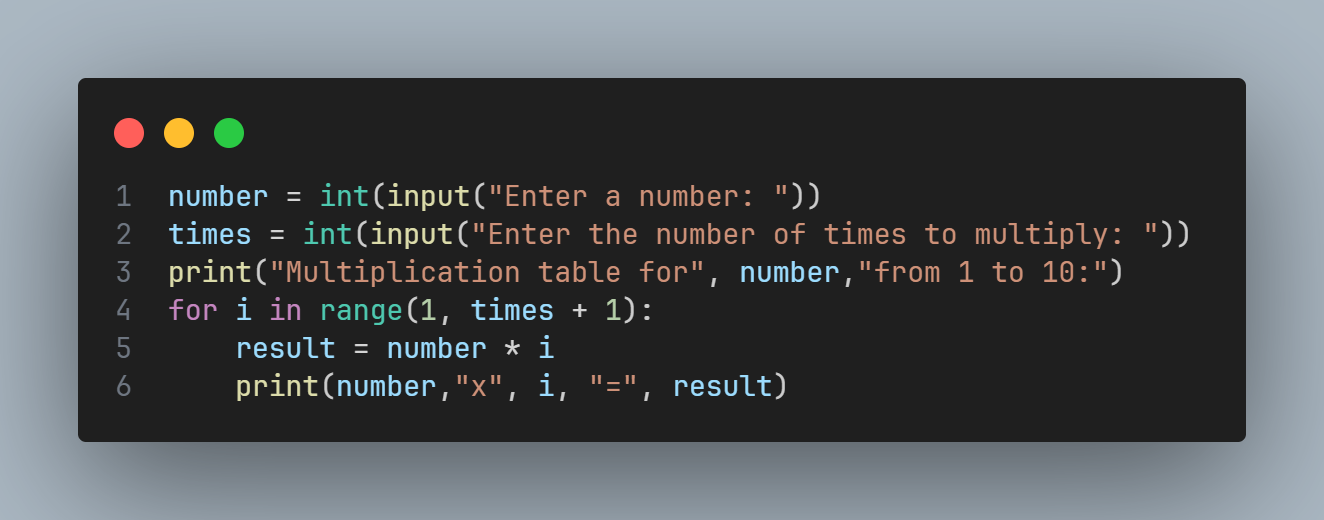
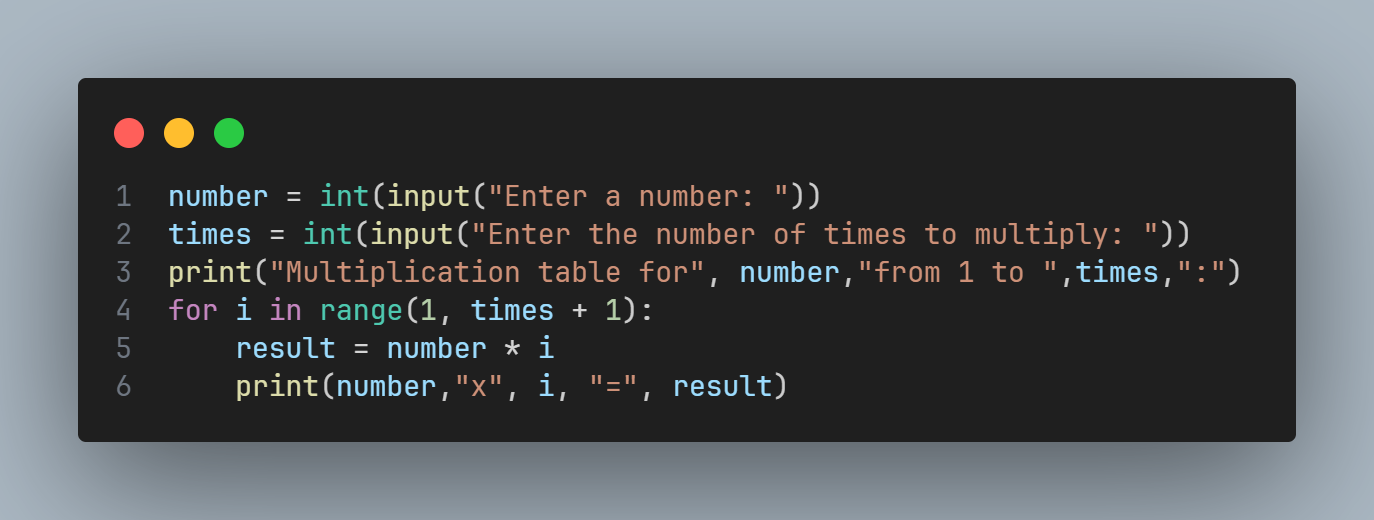
fixed errors in 3rd answer

diff --git a/Homework 1/[3] Multiplication table.py b/Homework 1/[3] Multiplication table.py
@@ -1,6 +1,6 @@
 number = int(input("Enter a number: "))
 times = int(input("Enter the number of times to multiply: "))
-print("Multiplication table for", number,"from 1 to 10:")
+print("Multiplication table for", number,"from 1 to ",times,":")
 for i in range(1, times + 1):
     result = number * i
     print(number,"x", i, "=", result)
